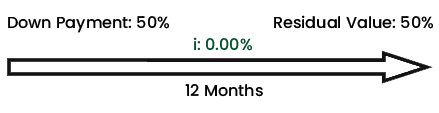
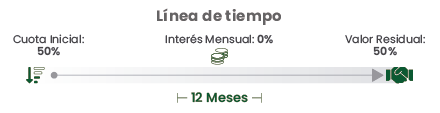
images

Changed region(s): [[0.0, 0.292, 1.0, 0.7434], [0.0, 0.0796, 1.0, 0.292], [0.385, 0.7434, 0.6219, 0.9027]]

diff --git a/simulate.html b/simulate.html
@@ -222,7 +222,7 @@
 
 									<!-- Timeline -->
 									<div>
-										<span class="contact100-form-title">Línea de Tiempo</span>
+										<!-- <span class="contact100-form-title">Línea de Tiempo</span> -->
 										<div class="timeline_div" >
 											<img class="timeline_div_img" id="timeline_div" src="images/timelines/00.03.Elite.png" alt="Plan Image">
 										</div>
